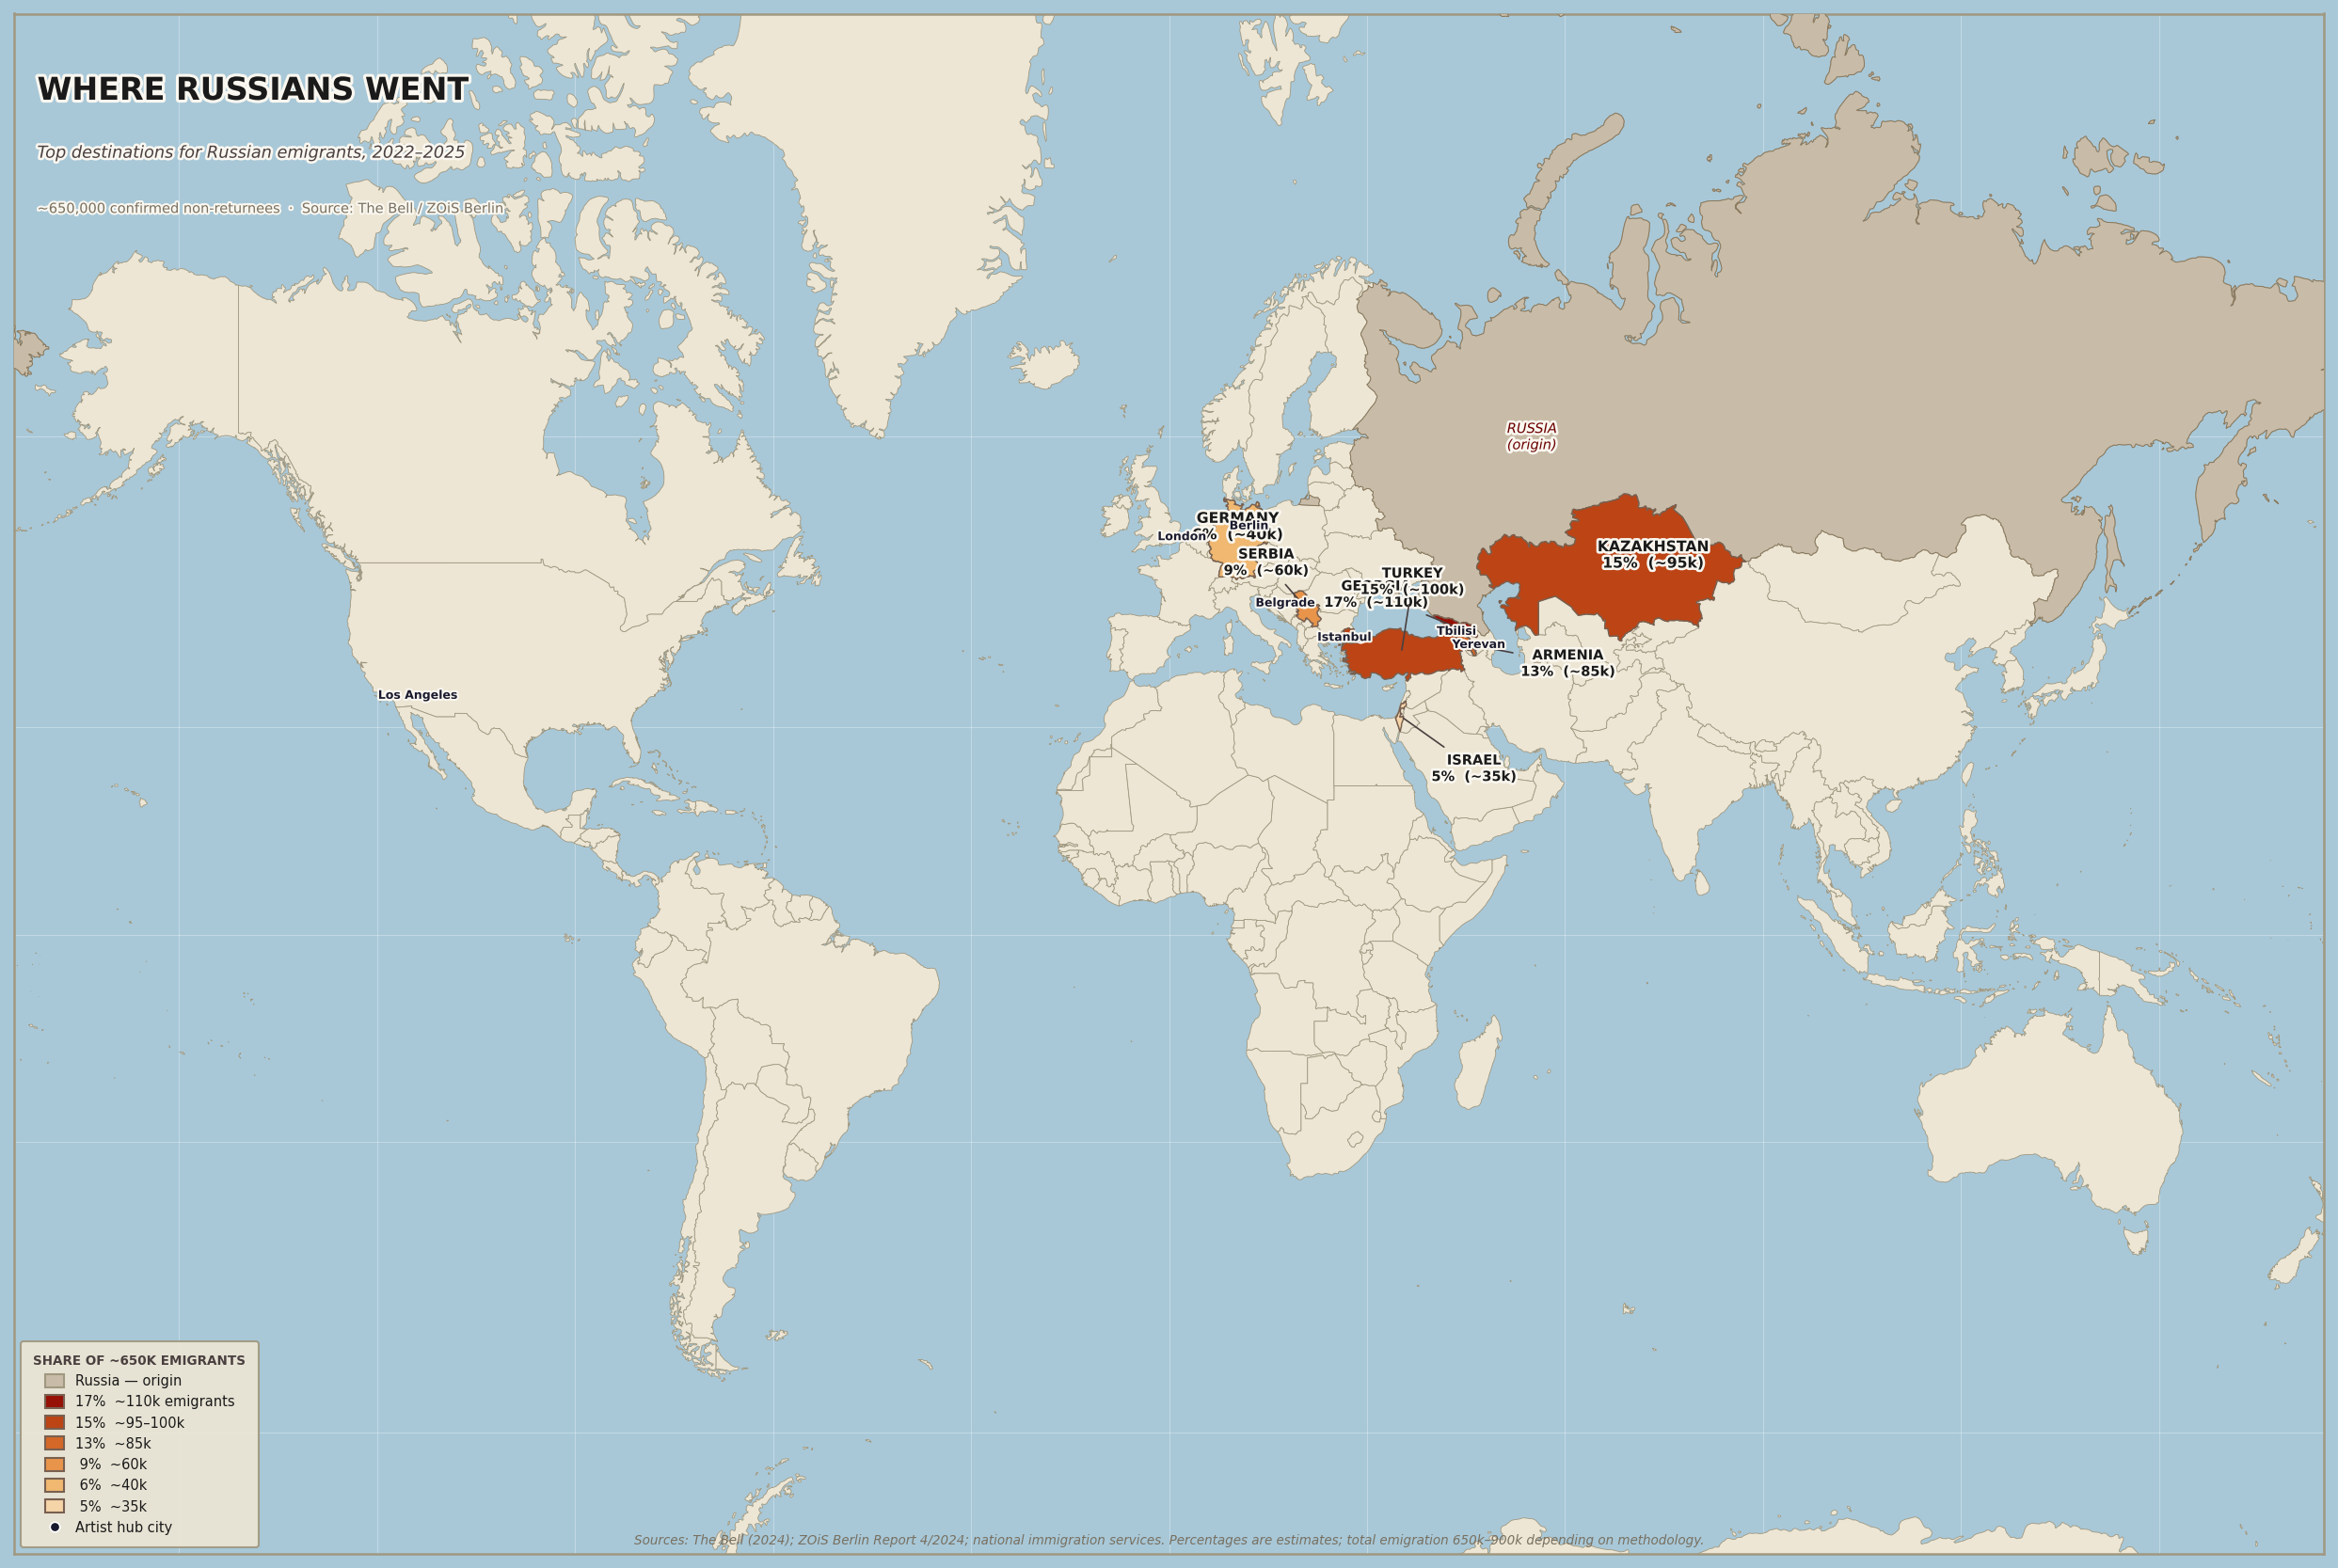
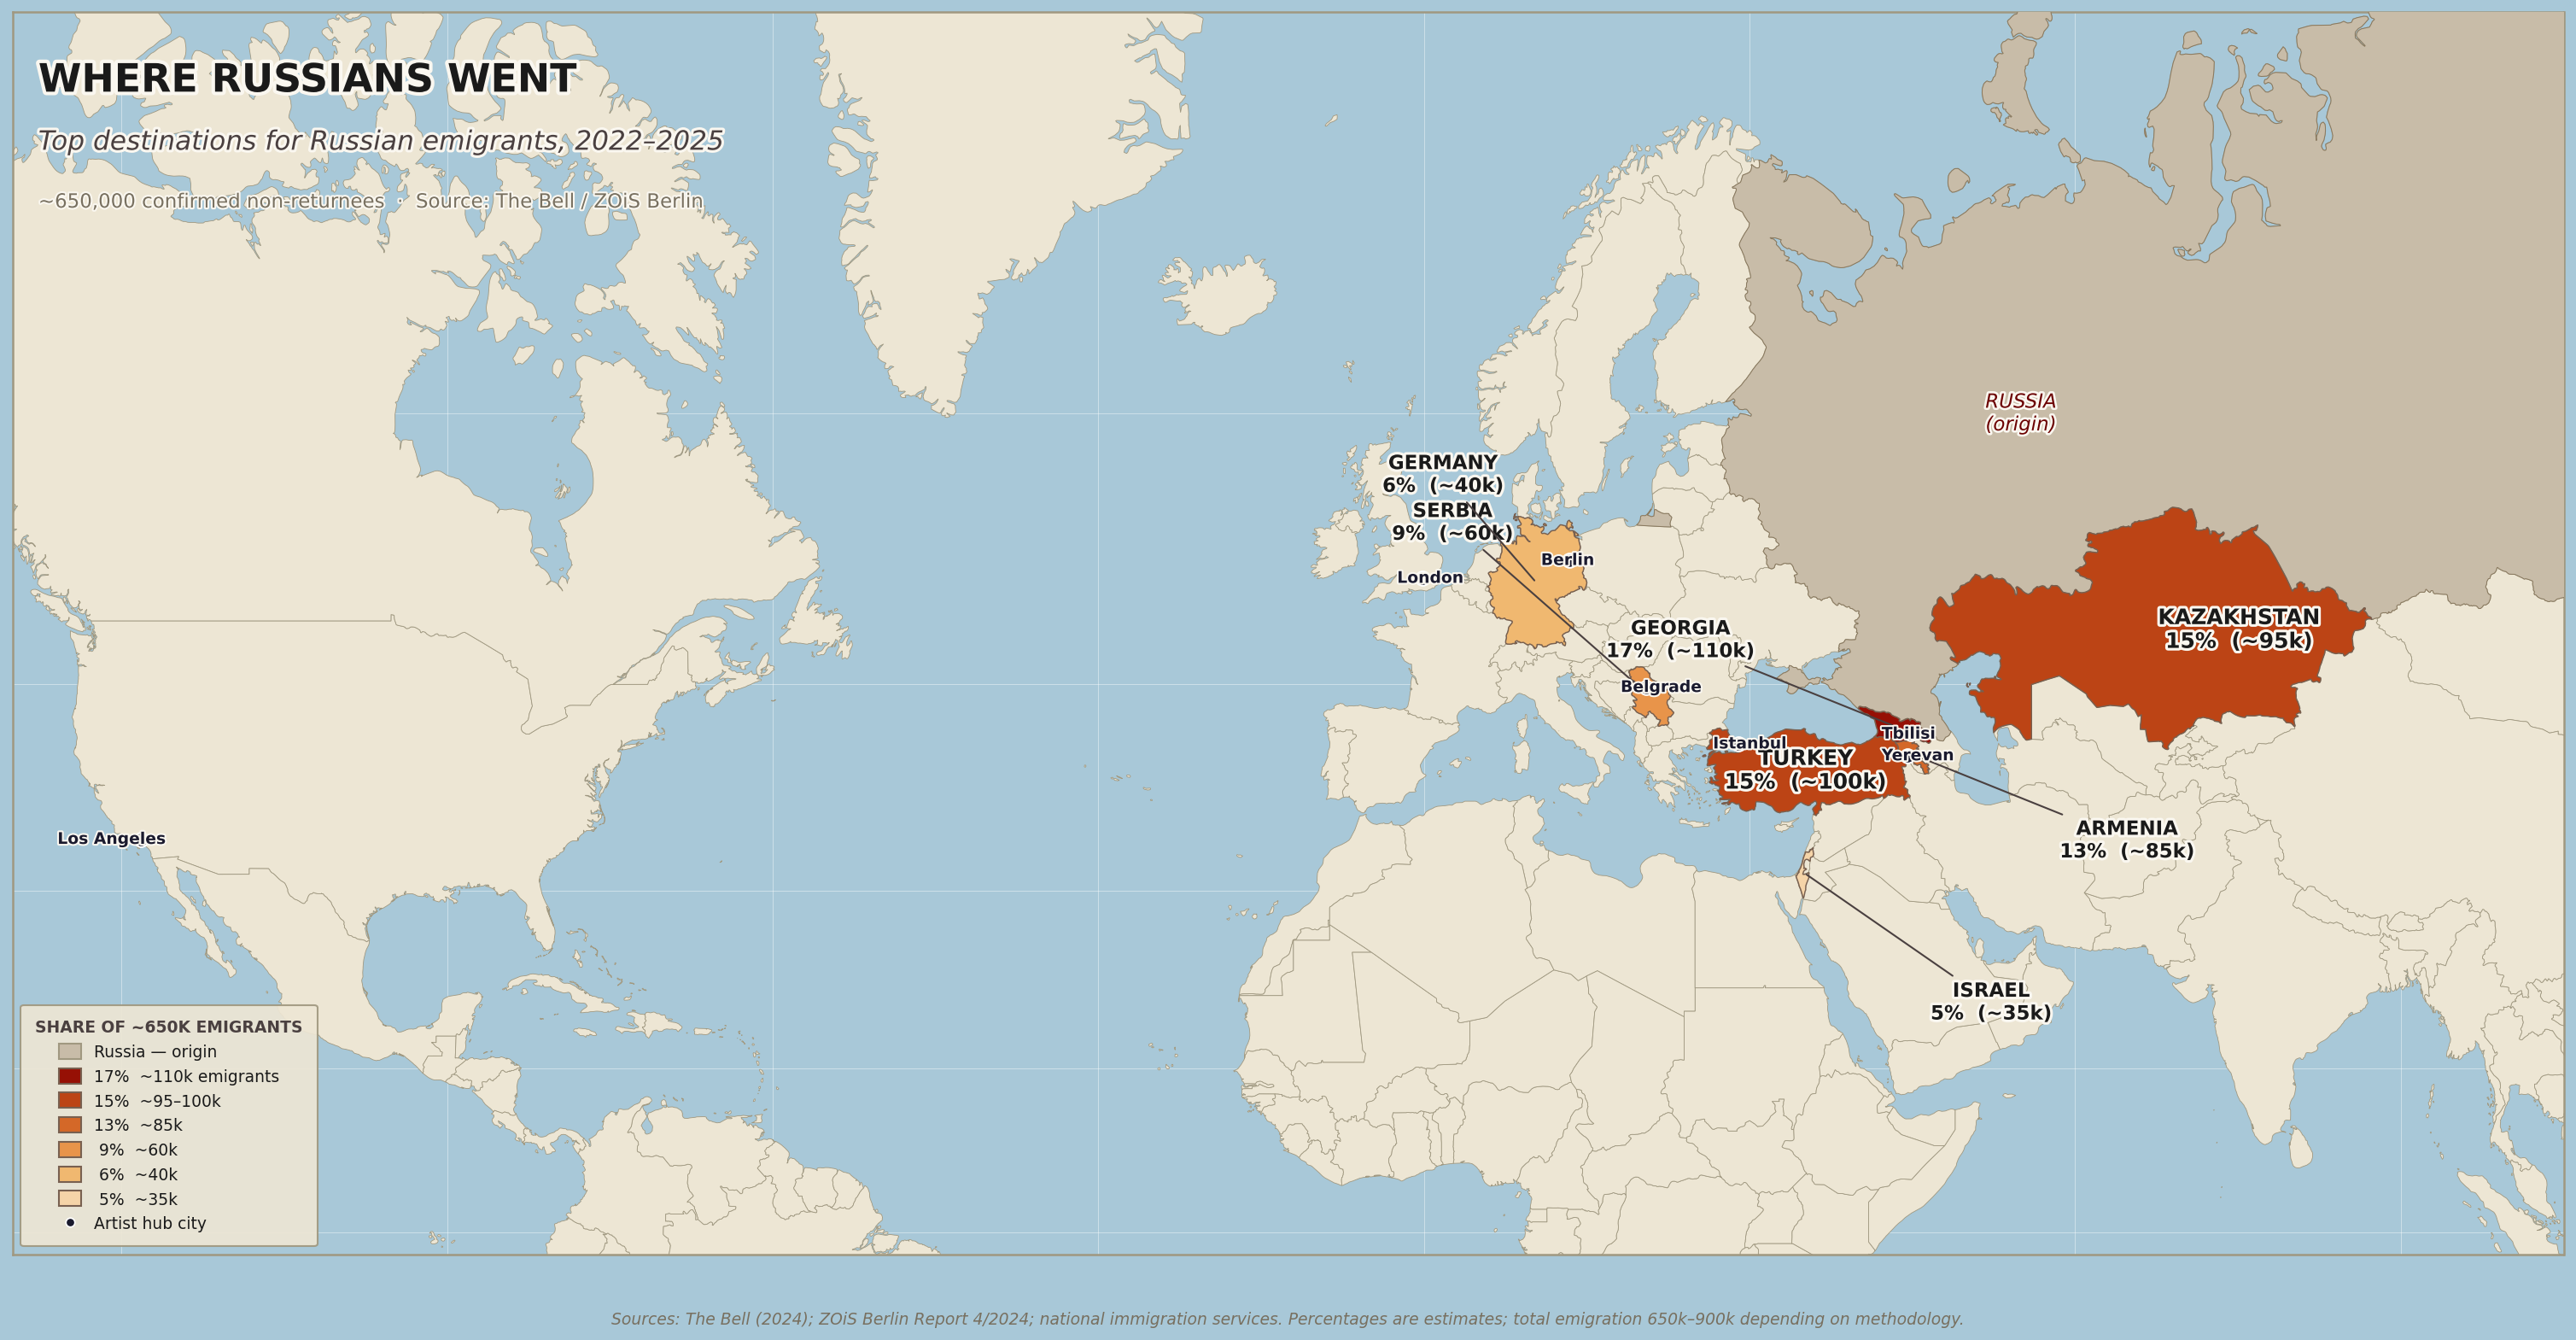
Zoom diaspora map to northern hemisphere, increase readability
- Cropped extent to lon -130..105, lat -2..74 (drops global south)
- All font sizes enlarged: country labels 7→11-12pt, title 16→22pt,
  subtitle 8.5→15pt, city labels 6→9pt, legend 7→9pt
- Spread country labels to distinct map zones using clock-position
  strategy to eliminate Caucasus cluster overlap:
  Georgia → Romania/Ukraine plains, Turkey → labeled directly on
  country, Armenia → Arabian Sea, Serbia → North Atlantic,
  Germany → North Sea, Israel → Arabian Peninsula
- City dots enlarged (5→8px), Tbilisi/Yerevan labels push
  opposite directions to separate the Caucasus cluster
- Graticule adjusted to match new northern-hemisphere extent

https://claude.ai/code/session_01PHDqoUgexPkF4mH3pw3hYE

diff --git a/maps/generate_diaspora_map.py b/maps/generate_diaspora_map.py
@@ -66,25 +66,25 @@ C = dict(
 # Source: The Bell (~650k confirmed non-returnees), ZOiS Berlin, national data
 DESTINATIONS = [
     # (NaturalEarth ADMIN name, pct, approx_count, color_key, label_offset_deg_x, label_offset_deg_y)
-    # offsets spread deliberately into open areas with long leader lines
-    ('Georgia',             17, '~110k', 'dest_17', -14,   +5  ),  # west into Black Sea
-    ('Turkey',              15, '~100k', 'dest_15', +2,   +11  ),  # north, above Black Sea
-    ('Kazakhstan',          15, '~95k',  'dest_15', +7,    +2  ),
-    ('Armenia',             13, '~85k',  'dest_13', +18,   -3  ),  # far east, into Caspian
-    ('Republic of Serbia',   9, '~60k',  'dest_9',  -7,   +7   ),  # northwest into central Europe
-    ('Germany',              6, '~40k',  'dest_6',   0,    +2  ),
-    ('Israel',               5, '~35k',  'dest_5',  +13,   -8  ),  # far right+south into Arabia
+    # Each label placed in a unique zone to avoid overlap; arrows connect to country
+    ('Georgia',             17, '~110k', 'dest_17', -23,   +8  ),  # → Romania/Ukraine plains (W)
+    ('Turkey',              15, '~100k', 'dest_15',  0,    0   ),  # → direct label on country (large)
+    ('Kazakhstan',          15, '~95k',  'dest_15',  9,    0   ),  # → eastern Kazakhstan steppe
+    ('Armenia',             13, '~85k',  'dest_13', +23,   -8  ),  # → Arabian Sea / west Pakistan
+    ('Republic of Serbia',   9, '~60k',  'dest_9',  -21,  +16  ),  # → North Atlantic (W of UK)
+    ('Germany',              6, '~40k',  'dest_6',  -10,  +10  ),  # → North Sea
+    ('Israel',               5, '~35k',  'dest_5',  +20,  -12  ),  # → Arabian Peninsula
 ]
 
 # ─── artist hub cities (lon, lat) ─────────────────────────────────────────────
 CITIES = [
-    ('Tbilisi',       44.83,  41.69,  'right'),
+    ('Tbilisi',       44.83,  41.69,  'right'),   # label goes east
     ('Berlin',        13.40,  52.52,  'right'),
-    ('Los Angeles', -118.24,  34.05,  'left' ),
+    ('Los Angeles', -118.24,  34.05,  'right'),
     ('London',        -0.13,  51.51,  'left' ),
-    ('Belgrade',      20.46,  44.82,  'right'),
-    ('Yerevan',       44.51,  40.18,  'left' ),
-    ('Istanbul',      28.97,  41.01,  'right'),
+    ('Belgrade',      20.46,  44.82,  'left' ),
+    ('Yerevan',       44.51,  40.18,  'left' ),   # label goes west (opposite Tbilisi)
+    ('Istanbul',      28.97,  41.01,  'left' ),
 ]
 
 # ─── Natural Earth download (same pattern as generate_maps.py) ────────────────
@@ -128,10 +128,10 @@ def generate_map(countries: gpd.GeoDataFrame) -> None:
     # ── reproject to Web Mercator ──────────────────────────────────────────────
     world_merc = countries.to_crs('EPSG:3857')
 
-    # Mercator extent: clip ~80°N/S to avoid infinity at poles
-    # lon -175..175, lat -70..80  → meters
-    xmin, ymin = lonlat_to_mercator(-175, -68)
-    xmax, ymax = lonlat_to_mercator( 175,  80)
+    # Cropped extent: north of equator only, LA to Kazakhstan
+    # lon -130..105, lat -2..74
+    xmin, ymin = lonlat_to_mercator(-130, -2)
+    xmax, ymax = lonlat_to_mercator( 105, 74)
 
     # Build destination lookup
     dest_map = {row[0]: row for row in DESTINATIONS}
@@ -185,37 +185,38 @@ def generate_map(countries: gpd.GeoDataFrame) -> None:
         # Display name (strip "Republic of" prefix for labels)
         display_name = name.replace('Republic of ', '')
 
-        # All small/offset countries use annotate with arrow; large countries use plain text
-        needs_arrow = name in ('Georgia', 'Armenia', 'Israel', 'Republic of Serbia', 'Turkey')
+        # Turkey and Kazakhstan are large enough for direct labeling
+        # All others use annotate with a leader line
+        needs_arrow = name not in ('Turkey', 'Kazakhstan')
 
         if needs_arrow:
             ax.annotate(
                 f'{display_name.upper()}\n{pct}%  ({count})',
                 xy=(cx, cy),
                 xytext=(label_x, label_y),
-                fontsize=7,
+                fontsize=11,
                 fontfamily='sans-serif',
                 fontweight='bold',
                 color=C['text_dark'],
                 ha='center',
                 va='center',
                 arrowprops=dict(arrowstyle='-', color=C['text_mid'],
-                                lw=0.8, shrinkA=2, shrinkB=2),
+                                lw=1.0, shrinkA=2, shrinkB=2),
                 zorder=8,
-                path_effects=halo(2.5, C['text_white']),
+                path_effects=halo(3, C['text_white']),
             )
         else:
             ax.text(
                 label_x, label_y,
                 f'{display_name.upper()}\n{pct}%  ({count})',
-                fontsize=7.5,
+                fontsize=12,
                 fontfamily='sans-serif',
                 fontweight='bold',
                 color=C['text_dark'],
                 ha='center',
                 va='center',
                 zorder=8,
-                path_effects=halo(2.5, C['text_white']),
+                path_effects=halo(3, C['text_white']),
             )
 
     # ── 5. Russia label ───────────────────────────────────────────────────────
@@ -224,7 +225,7 @@ def generate_map(countries: gpd.GeoDataFrame) -> None:
         # Place label near western Russia (more readable)
         rx, ry = lonlat_to_mercator(55, 60)
         ax.text(rx, ry, 'RUSSIA\n(origin)',
-                fontsize=7,
+                fontsize=11,
                 fontfamily='sans-serif',
                 fontstyle='italic',
                 color=C['russia_dot'],
@@ -241,17 +242,17 @@ def generate_map(countries: gpd.GeoDataFrame) -> None:
         # Dot
         ax.plot(mx, my,
                 marker='o',
-                markersize=5,
+                markersize=8,
                 markerfacecolor=C['city_dot'],
                 markeredgecolor='white',
-                markeredgewidth=0.8,
+                markeredgewidth=1.0,
                 zorder=10)
 
         # Label offset
-        pad_x = 180_000 if ha_side == 'right' else -180_000
+        pad_x = 260_000 if ha_side == 'right' else -260_000
         ax.text(mx + pad_x, my,
                 city_name,
-                fontsize=6,
+                fontsize=9,
                 fontfamily='sans-serif',
                 fontweight='bold',
                 color=C['city_dot'],
@@ -267,27 +268,27 @@ def generate_map(countries: gpd.GeoDataFrame) -> None:
 
     ax.text(title_x, title_y,
             'WHERE RUSSIANS WENT',
-            fontsize=16,
+            fontsize=22,
             fontfamily='sans-serif',
             fontweight='bold',
             color=C['text_dark'],
             va='top',
             zorder=12,
-            path_effects=halo(3, C['text_white']),
+            path_effects=halo(4, C['text_white']),
             )
-    ax.text(title_x, title_y - (ymax - ymin) * 0.045,
+    ax.text(title_x, title_y - (ymax - ymin) * 0.055,
             'Top destinations for Russian emigrants, 2022–2025',
-            fontsize=8.5,
+            fontsize=15,
             fontfamily='sans-serif',
             fontstyle='italic',
             color=C['text_mid'],
             va='top',
             zorder=12,
-            path_effects=halo(2.5, C['text_white']),
+            path_effects=halo(3, C['text_white']),
             )
-    ax.text(title_x, title_y - (ymax - ymin) * 0.082,
+    ax.text(title_x, title_y - (ymax - ymin) * 0.105,
             '~650,000 confirmed non-returnees  ·  Source: The Bell / ZOiS Berlin',
-            fontsize=7,
+            fontsize=11,
             fontfamily='sans-serif',
             color=C['text_lite'],
             va='top',
@@ -316,8 +317,8 @@ def generate_map(countries: gpd.GeoDataFrame) -> None:
     leg = ax.legend(
         handles=legend_patches + [city_handle],
         title='SHARE OF ~650K EMIGRANTS',
-        title_fontsize=6.5,
-        fontsize=7,
+        title_fontsize=9,
+        fontsize=9,
         loc='lower left',
         frameon=True,
         facecolor=C['land_base'],
@@ -343,19 +344,19 @@ def generate_map(countries: gpd.GeoDataFrame) -> None:
         sp.set_linewidth(1.2)
 
     # ── 10. Graticule lines (subtle lat/lon grid) ────────────────────────────
-    for lon_line in range(-150, 181, 30):
+    for lon_line in range(-120, 106, 30):
         lx, _ = lonlat_to_mercator(lon_line, 0)
-        ax.axvline(lx, color='white', linewidth=0.3, alpha=0.5, zorder=1)
-    for lat_line in range(-60, 81, 30):
+        ax.axvline(lx, color='white', linewidth=0.4, alpha=0.5, zorder=1)
+    for lat_line in range(0, 75, 15):
         _, ly = lonlat_to_mercator(0, lat_line)
-        ax.axhline(ly, color='white', linewidth=0.3, alpha=0.5, zorder=1)
+        ax.axhline(ly, color='white', linewidth=0.4, alpha=0.5, zorder=1)
 
     # ── 11. Source note at bottom ────────────────────────────────────────────
     fig.text(0.5, 0.01,
              'Sources: The Bell (2024); ZOiS Berlin Report 4/2024; national immigration services. '
              'Percentages are estimates; total emigration 650k–900k depending on methodology.',
              ha='center',
-             fontsize=6.5,
+             fontsize=9,
              fontstyle='italic',
              color=C['text_lite'],
              )